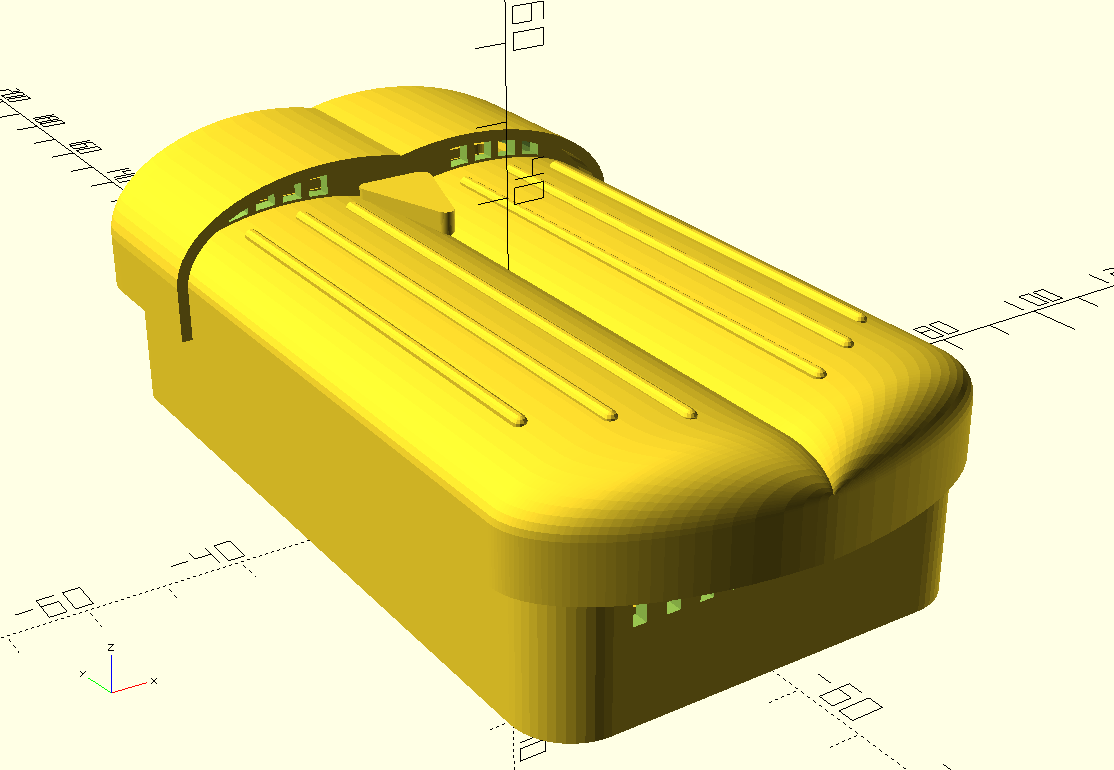
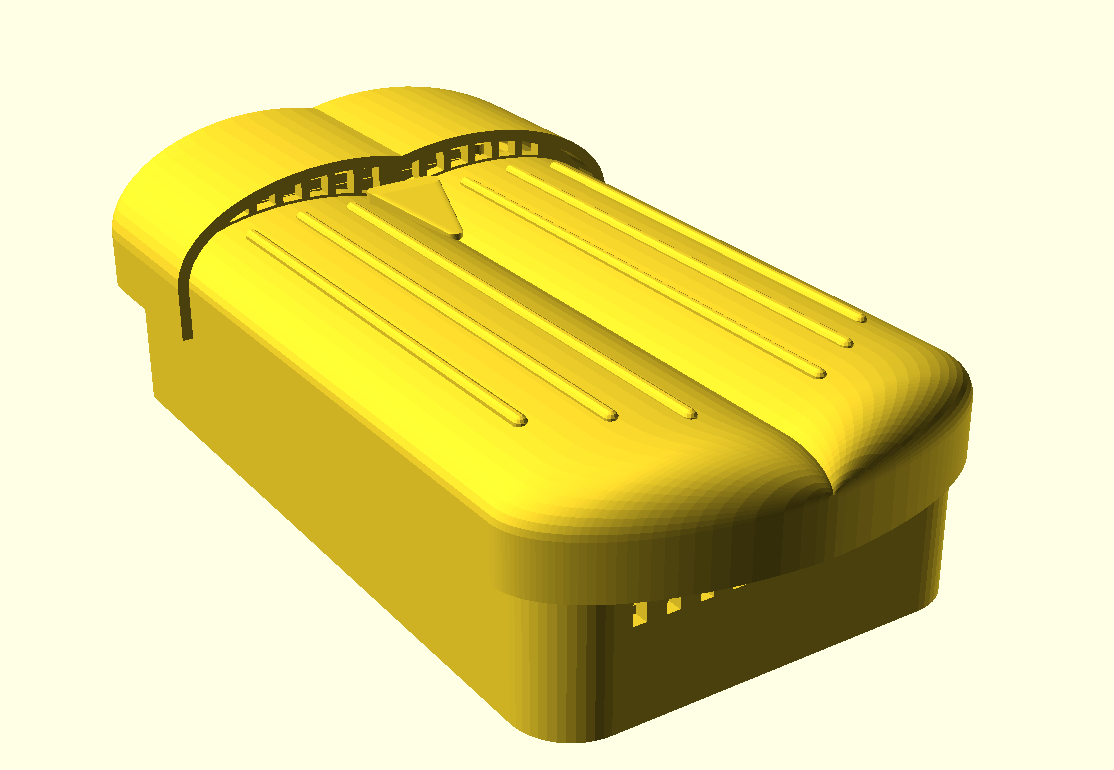
Case, lid improvements

diff --git a/case/README.md b/case/README.md
@@ -1,6 +1,8 @@
 # Case
 
 <img src="images/beetle-assembly.png" align="right" width="280">
+<img src="images/beetle-base.png" align="right" width="280">
+<img src="images/beetle-lid.png" align="right" width="280">
 
 A beetle themed wall case, based on the [sketch](case-sketch.svg). It has two
 printed parts:
@@ -31,48 +33,29 @@ openscad -o beetle-base.stl case/beetle-base.scad
 openscad -o beetle-lid.stl case/beetle-lid.scad
 ```
 
-Render `.scad` file:
-```shell
-openscad -o case/images/beetle-assembly.png --imgsize=800,1000 \
-	--colorscheme=Tomorrow --camera=0,0,0,-25,35,0,0 --viewall --autocenter \
-	case/beetle-assembly.scad
-```
+To re-render the images, just run `render-images.sh`.
 
 ## Printing
 * Use PETG or ASA, not PLA. PLA softens in the sun and goes brittle outdoors.
-  Print the lid in **white**. Daylight reaches the light sensor through the
-  0.8 mm window, and a white lid also keeps the case cool.
+  Preferable print the lid in a light color, to allow more light in for the light sensor.
 * **Base**: back on the bed, no supports.
 * **Lid**: open side down, as the file shows it. Enable supports
   *on build plate only* for the inside of the domes. Remove them through the
-  open side. A fine layer height (0.12-0.16 mm) gives smoother domes.
+  open side.
 
 ## Assembly
-1. Drill two holes 28 mm apart, level with each other, and fit screws with a
-   shank up to 4.4 mm and a head up to 8.5 mm (for example 4 mm pan head
-   screws). Leave the heads about 2.5 mm out from the wall. Put the base over
-   the heads and slide it down so it hangs on the keyhole slots.
-2. Slide the top end of the board (the BME280 end) into the slot at the top,
-   under the antenna clip. Then press the bottom edge down until the hook
+1. Slide the top end of the board (the BME280 end) into the slot at the top,
+   under the antenna clip in the base. Then press the bottom edge down until the hook
    clicks. The board rests on a bar at each end, and the two pins go into the
    bottom mounting holes.
-3. Press the LoRa antenna into the clip on the right-hand wall.
-4. Hook the top edge of the lid behind the lip on top of the base. Then swing
+2. Press the LoRa antenna into the clip on the right-hand wall.
+3. Hook the top edge of the lid behind the lip on top of the base. Then swing
    the lid down until the snaps on both sides click.
+4. Drill two holes 28 mm apart in the wall, level with each other, and fit screws with a
+   shank up to 4.4 mm and a head up to 8.5 mm. Leave the heads about 2.5 mm out from the wall. Put the base over
+   the heads and slide it down so it hangs on the keyhole slots.
 
 To open the case, pull the wing tips away from the wall. Take the lid off to
 charge the battery: a tab on the lid closes the USB-C opening in the bottom
 wall. To take out the board, push the hook at the bottom edge towards the
 bottom wall, lift that end of the board and pull it out of the slot.
-
-## Check before printing
-These dimensions come from datasheets and standard parts. Measure your own
-parts and adjust them in [`beetle-common.scad`](beetle-common.scad) if they
-differ:
-* `header_stack` (11 mm): from the top of the carrier board to the underside
-  of the CubeCell. That is an 8.5 mm female socket plus the 2.5 mm plastic of
-  the male pins. It sets the height of the USB-C opening.
-* `board_t` (1.8 mm): the board thickness plus some play under the hook.
-* `ant_d` (3.5 mm): the bore of the antenna clip.
-* `lid_clr` (0.3 mm) and `snap_h`: the fit between the lid and base. If the
-  lid is too tight or too loose, change these.
